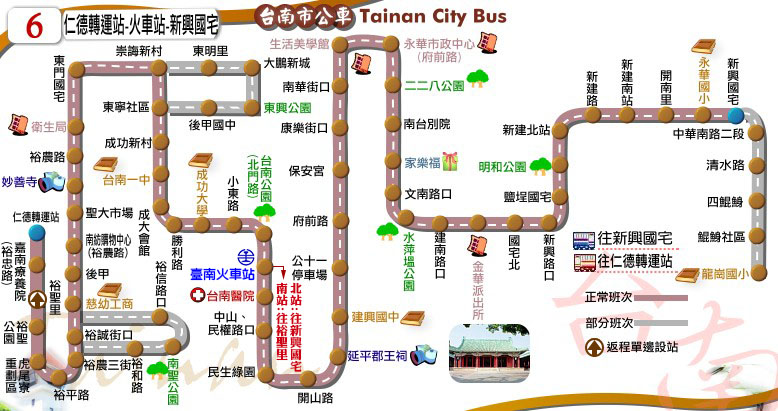
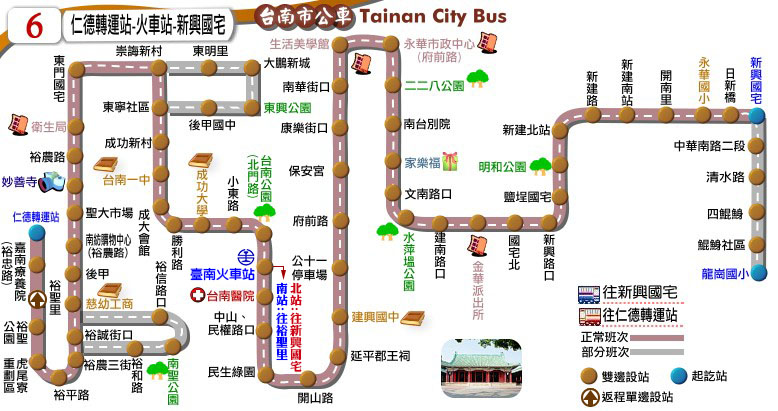
更新時刻表：棕10、20路(繞駛永康國中)、7410；新增站位：6路(增「日新橋」)

diff --git a/route/fare_and_time/city_bus_20.js b/route/fare_and_time/city_bus_20.js
@@ -1,15 +1,29 @@
 // format = [time at the start stop] or
+
 // [time, other] or
+
 // [time, start_stop, end_stop, other]
+
 city_bus_20_main_stop_name = ["南紡購物中心<br />(東光路)","崑山科大","永大夜市","永康<br />火車站","台南應用<br />科技大學","臺灣歷史<br />博物館","安南醫院","塭南里","海東國小"];
+
 city_bus_20_main_stop_time_consume = [0, 10, 17, 25, 35, 46, 50, 55, 80];
+
 city_bus_20_important_stop = [0, 3, 5, 6, 8]; // 南紡購物中心(東光路), 永康火車站, 臺灣歷史博物館, 安南醫院, 海東國小
+
 var start_stop = 7; // 塭南里
+
 var end_stop = 0; // 南紡購物中心(東光路)
+
 city_bus_20_time_go = [["06:00",[[4,-5,5,-5]]],["06:30",[[4,-5,5,-5]]],["07:00"],["08:00"],["09:00"],["10:00"],["11:00"],
-["12:00"],["13:00"],["14:00"],["15:00"],["16:00"],["16:30"],["17:00",[[1,5]]],["17:30",[[1,5]]],["18:05",[[1,5]]],["19:00"],
+
+["12:00"],["13:00"],["14:00"],["15:00"],["16:00",['繞']],["16:30",['繞']],["17:00",['繞',[1,5]]],["17:30",['繞',[1,5]]],["18:05",['繞',[1,5]]],["19:00"],
+
 ["20:00"],["20:45",[[4,-5]]],["21:30",[[4,-5]]]
+
 ];
-city_bus_20_time_return = [["06:00",start_stop,end_stop],["06:05"],["06:25"],["07:00"],["07:55"],["08:50"],["09:50"],["10:50"],["11:50"],["12:50"],["13:50"],
+
+city_bus_20_time_return = [["06:00",start_stop,end_stop,['繞']],["06:05",['繞']],["06:25",['繞']],["07:00",['繞']],["07:55",['繞']],["08:50"],["09:50"],["10:50"],["11:50"],["12:50"],["13:50"],
+
 ["14:55"],["15:50"],["16:30"],["17:00"],["17:30"],["18:10"],["19:10"],["20:10"],["20:50"],["21:30"]
+
 ];

diff --git a/brown/brown_10.html b/brown/brown_10.html
@@ -17,7 +17,7 @@
 <body>
 <script type="text/javascript">
 	block_header();
-	block_route_map('<p>因麻豆區文瑞橋改建工程施工，新營客運「【棕10】學甲－麻豆國中」路線，<span style="color:blue; font-weight:bold;">自106年3月1日起至107年4月30日止配合改道行駛，施工改道期間，『下草坔』、『港仔尾』、『莊禮寮』等三站暫時不停靠</span>，為配合學生上放學乘車便利，調整學甲發車06:40往麻豆國中之班次及麻豆國中發車17:15往學甲之班次，改道繞行至『港仔尾』、『莊禮寮』停靠外，其他班次則維持原訂暫時不停靠『下草坔』、『港仔尾』、『莊禮寮』等站位。<p><p>施工期間，借用棕幹線<span style="color:brown; font-weight:bold;">『清濟宮』</span>站(台19線)臨時停靠，便於民眾上、下車及轉搭乘其他路線，其計費以『下草坔』站計價收費。</p><p>改道路線圖詳見<a href="http://www.singing168.com.tw/news416.html" target="_blank">新營客運公告</a>。</p>');
+	block_route_map(null);
 	block_route_info(route_interval,'新營客運','','里程計費','http://www.2384.com.tw/ebus/jsp/ajaxBus.jsp?pathId=1310&locale=zh_TW');
 	block_fare(0, null);
 	block_time_schedule('學甲','麻豆',L_message);

diff --git a/route/fare_and_time/brown_10.js b/route/fare_and_time/brown_10.js
@@ -19,8 +19,8 @@ brown_10_fare = [
 // [time, other] or
 // [time, start_stop, end_stop, other]
 brown_10_main_stop_name = ["學甲<br />(民權路)","學甲","港仔尾","一商前","麻豆國中"];
-brown_10_main_stop_time_consume = [0, 2, 25, 33, 40];
+brown_10_main_stop_time_consume = [0, 2, 10, 24, 30];
 brown_10_important_stop = [0, 1, 4]; // 學甲(民權路), 學甲, 麻豆國中
-var skip_stop = 2; // 港仔尾
-brown_10_time_go = [["06:40",[[3,8,4,2]]],["07:00",['L',skip_stop,[3,4,4,2]]],["09:10",['L',skip_stop]],["11:35",['L',skip_stop]],["14:35",['L',skip_stop]],["16:15",['L',skip_stop]],["16:25",[skip_stop]]];
-brown_10_time_return = [["07:40",[skip_stop]],["07:50",['L',skip_stop]],["10:00",['L',skip_stop]],["12:20",['L',skip_stop]],["15:20",['L',skip_stop]],["17:05",['L',skip_stop,[3,2,2,5]]],["17:15",[[3,2,2,8]]]];
+var stop_1 = 2; // 港仔尾
+brown_10_time_go = [["06:40",[[stop_1,2,stop_1+1,3]]],["07:00",['L',[stop_1,2,stop_1+1,3]]],["09:20",['L']],["11:35",['L']],["14:30",['L']],["16:15",['L']],["16:35"]];
+brown_10_time_return = [["07:25"],["07:45",['L']],["10:00",['L']],["12:15",['L']],["15:10",['L']],["17:05",['L',[stop_1+1,4,stop_1,4,stop_1-1,2]]],["17:15",[[stop_1+1,4,stop_1,4]]]];

diff --git a/urban/20.html b/urban/20.html
@@ -20,7 +20,7 @@
 	block_route_map(null);
 	block_route_info(route_interval,'府城客運','尖30離60','兩段票 分段點：塭南里<br />緩衝區：安南醫院 ─ 嘉綠寶社區','http://www.2384.com.tw/ebus/jsp/ajaxBus.jsp?pathId=10020&locale=zh_TW');
 	block_fare(2, null,'分段點：塭南里<br /><font color="#CC2102"><u>緩衝區：安南醫院－嘉綠寶社區</u></font><br /><font color="green">乘車起迄點跨越緩衝區以二段票收費</font>');
-	block_time_schedule('南紡購物中心','海東國小','');
+	block_time_schedule('南紡購物中心','海東國小','「<span style="color:blue;">繞</span>」表示繞駛永康國中');
 	block_transfer(transfer_kun_shan_university + transfer_yongkang_railway_station + transfer_yanhang + transfer_taiwan_history_museum + transfer_annan_hospital + transfer_haidong_elementary_school);
 	block_copyright();
 </script>

diff --git a/route/fare_and_time/highway_bus_7410.js b/route/fare_and_time/highway_bus_7410.js
@@ -39,7 +39,7 @@ stop_0 = 0; // 新營
 stop_1 = 4; // 布袋遊客中心
 highway_bus_7410_time_go = [
 ["07:30",stop_0,stop_1],["08:20"],["08:50",['L']],["10:20",stop_0,stop_1],["12:10",stop_0,stop_1],["13:50",stop_0,stop_1],
-["15:10",stop_0,stop_1],["17:05",stop_0,stop_1],["18:00"],["18:50",stop_0,stop_1]
+["15:00",stop_0,stop_1],["17:05",stop_0,stop_1],["18:00"],["18:50",stop_0,stop_1]
 ];
 highway_bus_7410_time_return = [
 ["06:00",stop_1,stop_0],["08:20",stop_1,stop_0],["09:20"],["09:50",['L']],["11:10",stop_1,stop_0],["13:00",stop_1,stop_0],
